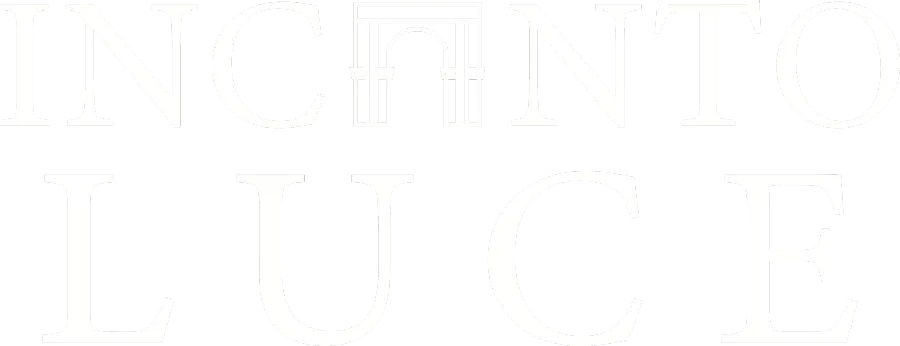
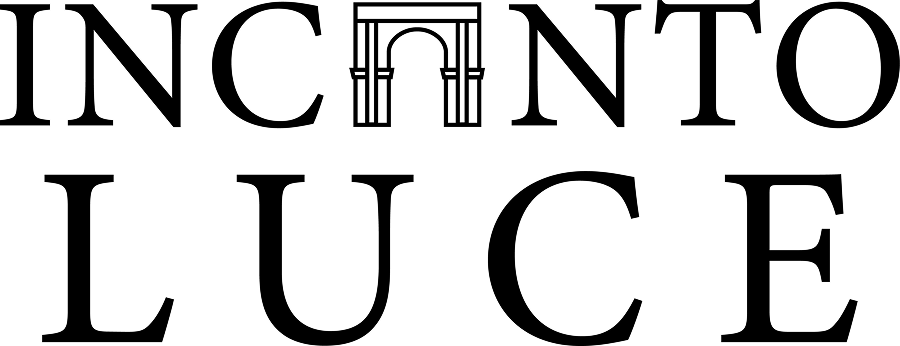
Marcas: todas em fundo branco; Usina e Incanto Luce em versão preta
Claude-Session: https://claude.ai/code/session_01MYZndcUHSc7xE3DknTS3tF

diff --git a/index.html b/index.html
@@ -178,11 +178,11 @@
         </div>
         <ul class="brands">
           <li class="reveal"><img src="assets/marcas/nordecor.svg" alt="Nordecor" loading="lazy" style="--h:30px"></li>
-          <li class="reveal is-dark"><img src="assets/marcas/luminatti.webp" alt="Luminatti" loading="lazy" style="--h:38px"></li>
+          <li class="reveal"><img src="assets/marcas/luminatti.webp" alt="Luminatti" loading="lazy" style="--h:44px"></li>
           <li class="reveal"><img src="assets/marcas/ledart.png" alt="LedArt" loading="lazy" style="--h:46px"></li>
-          <li class="reveal is-dark"><img src="assets/marcas/incanto-luce.webp" alt="Incanto Luce" loading="lazy" style="--h:58px"></li>
+          <li class="reveal"><img src="assets/marcas/incanto-luce.webp" alt="Incanto Luce" loading="lazy" style="--h:58px"></li>
           <li class="reveal"><img src="assets/marcas/brilia.svg" alt="Brilia" loading="lazy" style="--h:54px"></li>
-          <li class="reveal is-dark"><img src="assets/marcas/usina-design.svg" alt="Usina Design" loading="lazy" style="--h:60px"></li>
+          <li class="reveal"><img src="assets/marcas/usina-design.svg" alt="Usina Design" loading="lazy" style="--h:60px"></li>
         </ul>
       </div>
     </section>

diff --git a/styles.css b/styles.css
@@ -158,7 +158,7 @@ p { margin: 0 0 1em; }
 }
 .card__icon svg { width: 26px; height: 26px; fill: none; stroke: var(--gold); stroke-width: 1.7; stroke-linecap: round; stroke-linejoin: round; }
 
-/* Brands — logos nas cores originais de cada fornecedor */
+/* Brands — fundo branco, logos nas cores originais de cada fornecedor */
 .brands { list-style: none; padding: 0; margin: 0; display: grid; grid-template-columns: repeat(3, 1fr); gap: 1px; background: var(--line); border: 1px solid var(--line); border-radius: var(--radius); overflow: hidden; }
 .brands li {
   background: #fff;
@@ -167,8 +167,6 @@ p { margin: 0 0 1em; }
   place-items: center;
   padding: 1.5rem;
 }
-/* Logos feitas para fundo escuro (brancas/amarelas) ficam em quadro preto */
-.brands li.is-dark { background: var(--ink); }
 .brands img {
   height: var(--h, 46px);
   width: auto;

diff --git a/README.md b/README.md
@@ -20,7 +20,7 @@ Salve a foto como `assets/hero.jpg` (de preferência vertical, ~1200 px de altur
 ## Dados de contato
 - **WhatsApp:** constante `WHATSAPP_NUMBER` no topo de `script.js` e o número exibido em `index.html`
 - **E-mail e endereço:** seção `#contato` em `index.html`
-- **Marcas:** seção `#marcas` em `index.html`; logos em `assets/marcas/`, baixadas dos sites oficiais e exibidas nas cores originais (as feitas para fundo escuro ficam em quadro preto)
+- **Marcas:** seção `#marcas` em `index.html`; logos em `assets/marcas/`, baixadas dos sites oficiais e exibidas sobre fundo branco nas cores originais (Usina e Incanto Luce na versão preta)
 
 ## Ver localmente
 Abra `index.html` no navegador.
